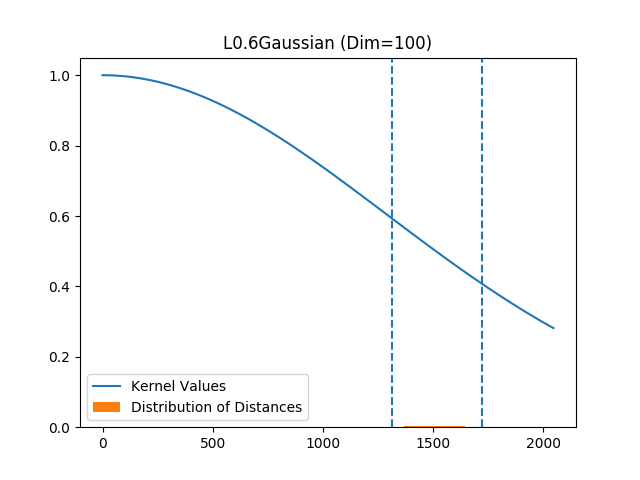
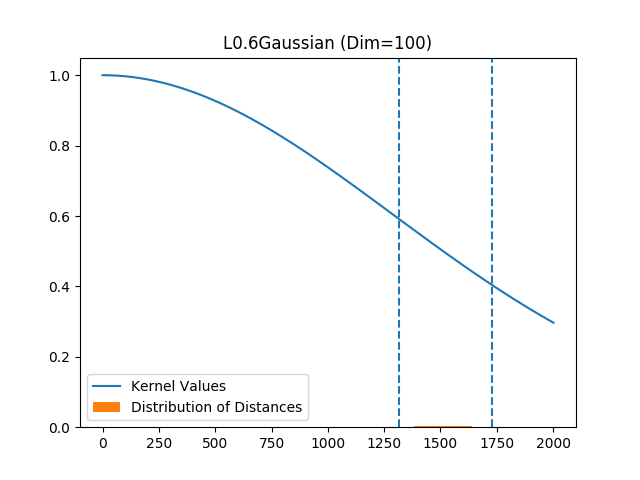
f-p kernels dont blow up like f-kernels

diff --git a/Presentation 1/Code/c8_frac_p_kernels_checking.py b/Presentation 1/Code/c8_frac_p_kernels_checking.py
@@ -1,0 +1,140 @@
+import numpy as np
+import numpy as np
+import matplotlib.pyplot as plt
+from math import pi,e
+from kernel_implementations import * 
+
+dimensions = [ 2, 10, 100 ]
+N = 10000 
+
+k = 0.6
+df1 = lambda x : get_distances(x,order=k) 
+
+for dim in dimensions:
+	sigma_data=1.0
+	actual_data = np.random.multivariate_normal(mean=np.zeros(dim), cov=sigma_data**2 * np.eye(dim), size=N) 
+	actual_distances = df1(actual_data) 
+	d_5, d_50, d_95 = np.percentile(actual_distances,5),np.percentile(actual_distances,50),np.percentile(actual_distances,95)
+	p = np.log(np.log(0.05)/np.log(0.95)) / np.log(d_95/d_5) 
+	sigma = d_50/((-np.log(0.50))**(1/p))
+	
+	dist_vals = np.linspace( 0, np.max( (np.max(actual_distances)+5, 15) ) , 100)
+	kernel_vals = p_gaussian_kernel(dist_vals,p,sigma) 
+
+	fig,ax=plt.subplots()
+	ax.plot(dist_vals,kernel_vals,label="Kernel Values") 
+	ax.hist(actual_distances,bins=200,density=True,label="Distribution of Distances") 
+	ax.axvline(d_5,ls='--')
+	ax.axvline(d_95,ls='--')
+	ax.set_title("fp-Gaussian (Dimension="+str(dim)+")")
+	ax.legend() 
+	fig.savefig('../Graphs/g8_improvement_fp_Gaussian_dim='+str(dim)+'.png')
+
+for dim in dimensions:
+	sigma_data=1.0
+	actual_data = np.random.multivariate_normal(mean=np.zeros(dim), cov=sigma_data**2 * np.eye(dim), size=N) 
+	actual_distances = df1(actual_data) 
+	d_5, d_50, d_95 = np.percentile(actual_distances,5),np.percentile(actual_distances,50),np.percentile(actual_distances,95)
+	p = np.log(np.log(0.05)/np.log(0.95)) / np.log(d_95/d_5) 
+
+	dist_vals = np.linspace( 0, np.max(actual_distances)+5 , 100)
+	kernel_vals = p_rational_quadratic_kernel(dist_vals,c=(d_50)**2,p=p) 
+	kernel_vals = kernel_vals/np.max(kernel_vals)
+
+	fig,ax=plt.subplots()
+	ax.plot(dist_vals,kernel_vals,label="Kernel Values") 
+	ax.hist(actual_distances,bins=200,density=True,label="Distribution of Distances") 
+	ax.axvline(d_5,ls='--')
+	ax.axvline(d_95,ls='--')
+	ax.set_title("fp-Rational Quadratic (Dim="+str(dim)+")")
+	ax.legend() 
+	fig.savefig('../Graphs/g8_improved_fp_RationalQuadratic_dim='+str(dim)+'.png')
+
+
+for dim in dimensions:
+	sigma_data=1.0
+	actual_data = np.random.multivariate_normal(mean=np.zeros(dim), cov=sigma_data**2 * np.eye(dim), size=N) 
+	actual_distances = df1(actual_data) 
+	d_5, d_50, d_95 = np.percentile(actual_distances,5),np.percentile(actual_distances,50),np.percentile(actual_distances,95)
+	p = np.log(np.log(0.05)/np.log(0.95)) / np.log(d_95/d_5) 
+
+	dist_vals = np.linspace( 0, np.max(actual_distances)+5 , 100)
+	kernel_vals = p_inverse_multiquadratic_kernel(dist_vals,c=(d_50)/(3**(1/p)),p=p) 
+	kernel_vals = kernel_vals/np.max(kernel_vals)
+
+	fig,ax=plt.subplots()
+	ax.plot(dist_vals,kernel_vals,label="Kernel Values") 
+	ax.hist(actual_distances,bins=200,density=True,label="Distribution of Distances") 
+	ax.axvline(d_5,ls='--')
+	ax.axvline(d_95,ls='--')
+	ax.set_title("fp-Inverse Multi-Quadratic (Dim="+str(dim)+")")
+	ax.legend() 
+	fig.savefig('../Graphs/g8_improved_fp_InverseMultiQuadratic_dim='+str(dim)+'.png')
+
+
+
+for dim in dimensions:
+	sigma_data=1.0
+	actual_data = np.random.multivariate_normal(mean=np.zeros(dim), cov=sigma_data**2 * np.eye(dim), size=N) 
+	actual_distances = df1(actual_data) 
+	d_5, d_50, d_95 = np.percentile(actual_distances,5),np.percentile(actual_distances,50),np.percentile(actual_distances,95)
+	p = np.log(np.log(0.05)/np.log(0.95)) / np.log(d_95/d_5) 
+
+	dist_vals = np.linspace( 0, np.max(actual_distances)+5 , 100)
+	kernel_vals = p_cauchy_kernel(dist_vals,s=d_50,p=p) 
+	kernel_vals = kernel_vals/np.max(kernel_vals)
+
+	fig,ax=plt.subplots()
+	ax.plot(dist_vals,kernel_vals,label="Kernel Values") 
+	ax.hist(actual_distances,bins=200,density=True,label="Distribution of Distances") 
+	ax.axvline(d_5,ls='--')
+	ax.axvline(d_95,ls='--')
+	ax.set_title("fp-Cauchy (Dim="+str(dim)+")")
+	ax.legend() 
+	fig.savefig('../Graphs/g8_improved_fp_Cauchy_dim='+str(dim)+'.png')
+
+
+for dim in dimensions:
+	sigma_data=1.0
+	actual_data = np.random.multivariate_normal(mean=np.zeros(dim), cov=sigma_data**2 * np.eye(dim), size=N) 
+	actual_distances = df1(actual_data) 
+	d_5, d_50, d_95 = np.percentile(actual_distances,5),np.percentile(actual_distances,50),np.percentile(actual_distances,95)
+	p = np.log(np.log(0.05)/np.log(0.95)) / np.log(d_95/d_5) 
+
+	dist_vals = np.linspace( 0, np.max(actual_distances)+5 , 100)
+	kernel_vals = p_matern_kernel(dist_vals,l=d_50,p=p) 
+	kernel_vals = kernel_vals/np.max(kernel_vals)
+
+	fig,ax=plt.subplots()
+	ax.plot(dist_vals,kernel_vals,label="Kernel Values") 
+	ax.hist(actual_distances,bins=200,density=True,label="Distribution of Distances") 
+	ax.axvline(d_5,ls='--')
+	ax.axvline(d_95,ls='--')
+	ax.set_title("fp-Matern Kernel (Dim="+str(dim)+")")
+	ax.legend() 
+	fig.savefig('../Graphs/g8_improved_fp_Matern_dim='+str(dim)+'.png')
+
+for dim in dimensions:
+	sigma_data=1.0
+	actual_data = np.random.multivariate_normal(mean=np.zeros(dim), cov=sigma_data**2 * np.eye(dim), size=N) 
+	actual_distances = df1(actual_data) 
+	d_5, d_50, d_95 = np.percentile(actual_distances,5),np.percentile(actual_distances,50),np.percentile(actual_distances,95)
+	p = np.log(np.log(0.05)/np.log(0.95)) / np.log(d_95/d_5) 
+
+	dist_vals = np.linspace( 0, np.max(actual_distances)+5 , 100)
+	kernel_vals = p_laplace_kernel(dist_vals,sigma=d_50/((-np.log(0.5))**(1/p)),p=p) 
+	kernel_vals = kernel_vals/np.max(kernel_vals)
+
+	fig,ax=plt.subplots()
+	ax.plot(dist_vals,kernel_vals,label="Kernel Values") 
+	ax.hist(actual_distances,bins=200,density=True,label="Distribution of Distances") 
+	ax.axvline(d_5,ls='--')
+	ax.axvline(d_95,ls='--')
+	ax.set_title("fp-LaPlace Kernel (Dim="+str(dim)+")")
+	ax.legend() 
+	fig.savefig('../Graphs/g8_improved_fp_LaPlace_dim='+str(dim)+'.png')
+
+
+# plt.show()
+
+
